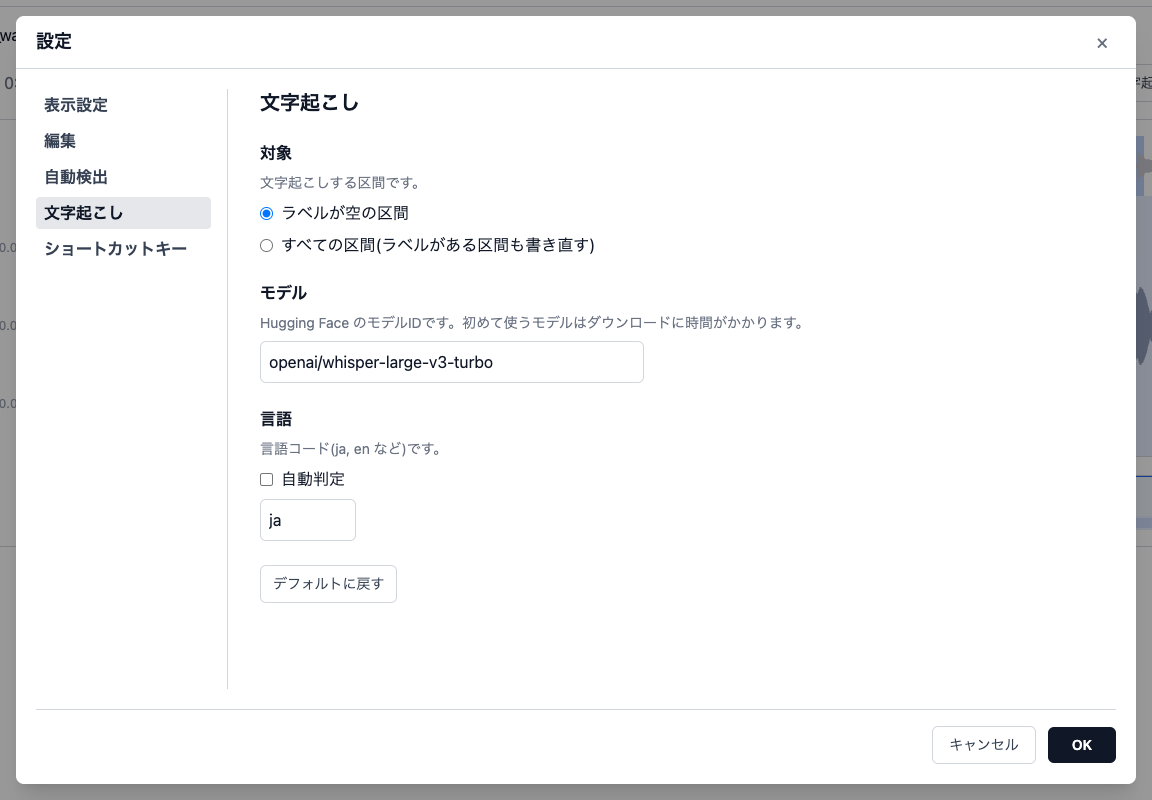
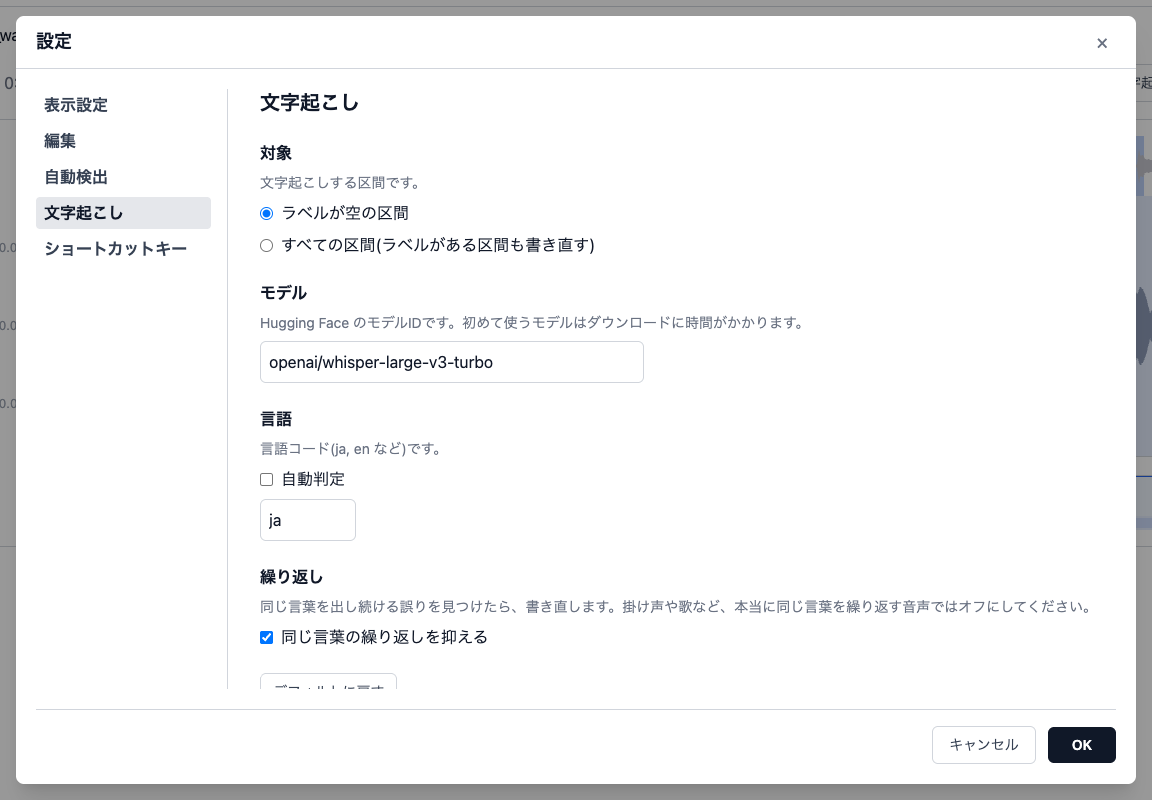
Suppress Whisper repetition hallucinations with temperature fallback
Retry with higher temperature when the output's compression ratio exceeds 4.0,
and add a setting to turn it off for audio with genuine repetition.

Changed region(s): [[0.2188, 0.6875, 0.9375, 0.8125]]

diff --git a/frontend/src/components/TranscriptionSettingsSection.tsx b/frontend/src/components/TranscriptionSettingsSection.tsx
@@ -65,6 +65,17 @@ function TranscriptionSettingsSection({ settings, onChange }: TranscriptionSetti
         )}
       </SettingItem>
 
+      <SettingItem
+        title="繰り返し"
+        description="同じ言葉を出し続ける誤りを見つけたら、書き直します。掛け声や歌など、本当に同じ言葉を繰り返す音声ではオフにしてください。"
+      >
+        <Checkbox
+          checked={settings.suppressRepetition}
+          label="同じ言葉の繰り返しを抑える"
+          onChange={(suppressRepetition) => update({ suppressRepetition })}
+        />
+      </SettingItem>
+
       {error && <p className="m-0 text-sm text-red-600">{error}</p>}
 
       <div>

diff --git a/frontend/src/types.ts b/frontend/src/types.ts
@@ -93,6 +93,8 @@ export type TranscriptionSettings = {
   modelId: string;
   // Whisperの言語コード(例: ja)。nullのときは区間ごとに自動判定する
   language: string | null;
+  // 同じ言葉を出し続ける繰り返し(ハルシネーション)を、バックエンドでやり直して抑えるか
+  suppressRepetition: boolean;
 };
 
 // 音声を読み込んだ後に、続けてどこまで処理するか

diff --git a/frontend/src/api/transcriptionApi.ts b/frontend/src/api/transcriptionApi.ts
@@ -33,6 +33,7 @@ export async function transcribeRanges(
       channel,
       model_id: settings.modelId.trim(),
       language: settings.language?.trim() ?? null,
+      suppress_repetition: settings.suppressRepetition,
       ranges: ranges.map((r) => ({ start_sec: r.startSec, end_sec: r.endSec })),
     }),
   });

diff --git a/frontend/src/hooks/useTranscriptionSettings.tsx b/frontend/src/hooks/useTranscriptionSettings.tsx
@@ -9,6 +9,7 @@ export const DEFAULT_TRANSCRIPTION_SETTINGS: TranscriptionSettings = {
   targetMode: "unlabeled",
   modelId: "openai/whisper-large-v3-turbo",
   language: "ja",
+  suppressRepetition: true,
 };
 
 export function findTranscriptionSettingsError(settings: TranscriptionSettings): string | null {

diff --git a/backend/app/services/transcription.py b/backend/app/services/transcription.py
@@ -20,6 +20,14 @@ _loaded: tuple[str, AutomaticSpeechRecognitionPipeline] | None = None
 # 呼び出し側が途中でやめた(利用者が中止した)ときにロックが残らないよう、ロックは1回の呼び出しの間だけ持つ
 _lock = threading.Lock()
 
+# 同じ語句を出し続ける繰り返し(ハルシネーション)への対策。出力の圧縮率(トークン列をzlibで縮めた比)が閾値を超えたら
+# 結果を捨て、temperatureを上げてサンプリングでやり直す(OpenAI公式実装と同じtemperature fallback)。
+# 閾値はtransformersの推奨値(1.35)より緩くし、出力の上限近くまで続く繰り返しだけを拾う。1.35では同じ文を2回話しただけでも
+# 超え(約1.6)、本当に話した繰り返しが消えるため(同じ文を3回で約2.5、「はい、」を10回で約2.7、上限近くまでの繰り返しは10前後)。
+# 繰り返しを禁じるno_repeat_ngram_size・repetition_penaltyは、本当の繰り返しや、日本語で何度も出る助詞・句読点まで抑えるため使わない
+_FALLBACK_TEMPERATURES = (0.0, 0.2, 0.4, 0.6, 0.8, 1.0)
+_COMPRESSION_RATIO_THRESHOLD = 4.0
+
 
 @dataclass(frozen=True)
 class PreparedAudio:
@@ -56,12 +64,19 @@ def prepare_audio(samples: np.ndarray, sample_rate: int, model_id: str) -> Prepa
     return PreparedAudio(samples=wav.numpy(), sample_rate=model_sample_rate)
 
 
-def transcribe_range(audio: PreparedAudio, r: TranscriptionRange, model_id: str, language: str | None) -> str:
+def transcribe_range(
+    audio: PreparedAudio, r: TranscriptionRange, model_id: str, language: str | None, suppress_repetition: bool
+) -> str:
     """1区間を文字起こしする。languageがNoneのときは区間ごとに言語を自動判定する"""
     clip = audio.samples[int(r.start_sec * audio.sample_rate) : int(r.end_sec * audio.sample_rate)]
     if len(clip) == 0:
         return ""
-    generate_kwargs = {"language": language} if language is not None else {}
+    generate_kwargs: dict[str, object] = {}
+    if suppress_repetition:
+        generate_kwargs["temperature"] = _FALLBACK_TEMPERATURES
+        generate_kwargs["compression_ratio_threshold"] = _COMPRESSION_RATIO_THRESHOLD
+    if language is not None:
+        generate_kwargs["language"] = language
     with _lock:
         asr = _get_pipeline(model_id)
         # Whisperが一度に扱える長さ(30秒)を超える区間は、タイムスタンプを予測させないと書き起こせない(transformersの仕様)。

diff --git a/backend/app/routers/transcription.py b/backend/app/routers/transcription.py
@@ -38,7 +38,9 @@ def transcribe_segments(upload_id: str, request: TranscribeRequest, http_request
             for index, r in enumerate(request.ranges):
                 if await http_request.is_disconnected():
                     return
-                text = await run_in_threadpool(transcribe_range, audio, r, request.model_id, request.language)
+                text = await run_in_threadpool(
+                    transcribe_range, audio, r, request.model_id, request.language, request.suppress_repetition
+                )
                 yield TranscribedText(index=index, text=text).model_dump_json() + "\n"
         except TranscriptionError as e:
             yield TranscriptionFailure(error=str(e)).model_dump_json() + "\n"

diff --git a/backend/app/models.py b/backend/app/models.py
@@ -130,6 +130,8 @@ class TranscribeRequest(BaseModel):
     model_id: str = Field(min_length=1)
     # Whisperの言語コード(例: ja)。Noneのときは区間ごとに自動判定する
     language: str | None = Field(min_length=1)
+    # 同じ語句を出し続ける繰り返しを、temperatureを上げてやり直して抑えるか(services/transcription.py参照)
+    suppress_repetition: bool
     ranges: list[TranscriptionRange]
 
 

diff --git a/docs/settings.md b/docs/settings.md
@@ -98,13 +98,15 @@
 
 ![設定ダイアログ - 文字起こし](images/settings-transcription.png)
 
-| 項目   | 内容                                                                    | 既定値                          |
-| ------ | ----------------------------------------------------------------------- | ------------------------------- |
-| 対象   | 「ラベルが空の区間」/「すべての区間(ラベルがある区間も書き直す)」       | ラベルが空の区間                |
-| モデル | Hugging Face のモデル ID。fine-tune したモデルなども指定できる          | `openai/whisper-large-v3-turbo` |
-| 言語   | 言語コード(`ja`、`en` など)、または「自動判定」(短い区間では外れやすい) | `ja`                            |
+| 項目     | 内容                                                                         | 既定値                          |
+| -------- | ---------------------------------------------------------------------------- | ------------------------------- |
+| 対象     | 「ラベルが空の区間」/「すべての区間(ラベルがある区間も書き直す)」            | ラベルが空の区間                |
+| モデル   | Hugging Face のモデル ID。fine-tune したモデルなども指定できる               | `openai/whisper-large-v3-turbo` |
+| 言語     | 言語コード(`ja`、`en` など)、または「自動判定」(短い区間では外れやすい)      | `ja`                            |
+| 繰り返し | 「同じ言葉の繰り返しを抑える」。同じ言葉を出し続ける誤りを見つけたら書き直す | オン                            |
 
 - 読み込みのダイアログでラベルを選んで文字起こしするときは、対象の設定にかかわらず、ラベルが空の区間だけを埋めます
+- 「同じ言葉の繰り返しを抑える」がオンでも、数十回で止まる繰り返しは見つけられません。見つけて書き直した区間は、ふだんより時間がかかります。掛け声や歌など、本当に同じ言葉を繰り返す音声では、繰り返しの一部が消えることがあるのでオフにしてください
 - 初めて使うモデルはダウンロードに時間がかかります。ダウンロードしたモデルは Docker のボリュームに残ります
 
 ### ショートカットキー

diff --git a/PLAN.md b/PLAN.md
@@ -231,6 +231,12 @@ start_sec\tend_sec\tlabel
   - 対象: 「ラベルが空の区間」(既定) / 「すべての区間」
   - モデル: Hugging Face のモデルID(既定 `openai/whisper-large-v3-turbo`)
   - 言語: 言語コード(既定 `ja`)。「自動判定」にもできるが、短い区間では外れやすいため既定は固定
+  - 繰り返し: 同じ言葉の繰り返しを抑えるか(既定オン。下記参照)
+- 同じ語句を出し続ける繰り返し(ハルシネーション)は、出力の圧縮率が閾値を超えたら temperature を上げてやり直す(OpenAI公式実装と同じ temperature fallback。30秒以下の区間にも効く)
+  - 閾値は 4.0(transformers の推奨値 1.35 より緩い)。出力の上限近くまで続く繰り返しだけを拾い、本当に話した繰り返し(同じ文を3回で約2.5、「はい、」を10回で約2.7)は残すため。数十回で止まる繰り返しは拾えない
+  - `no_repeat_ngram_size`・`repetition_penalty` は使わない。本当の繰り返しや、日本語で何度も出る助詞・句読点まで抑えてしまうため
+  - やり直した区間は、やり直しの回数ぶん時間がかかる。遅さが問題になったら、繰り返しの回数を数えて生成を打ち切る方法を検討する
+  - 設定でオン/オフだけを切り替えられる(既定オン)。掛け声・お経・歌のように本当に同じ言葉を繰り返す音声では、やり直しで繰り返しの一部が消えることがあるため。閾値の数値は設定に出さない(圧縮率は繰り返す単位の長さで値が大きく変わり、数値を変えたときの効き方を利用者が予想できないため)
 - 初回はモデルのダウンロードで数分かかる(その間、進捗は 0 のまま)
 - Whisperは入力を30秒に埋めてから処理するため、短い区間でも1区間あたりの時間はほぼ一定になる(large-v3-turbo・Docker on Mac(8コア)で1区間あたり約17秒)。遅すぎる場合は faster-whisper(int8)への切り替えを検討する
 
